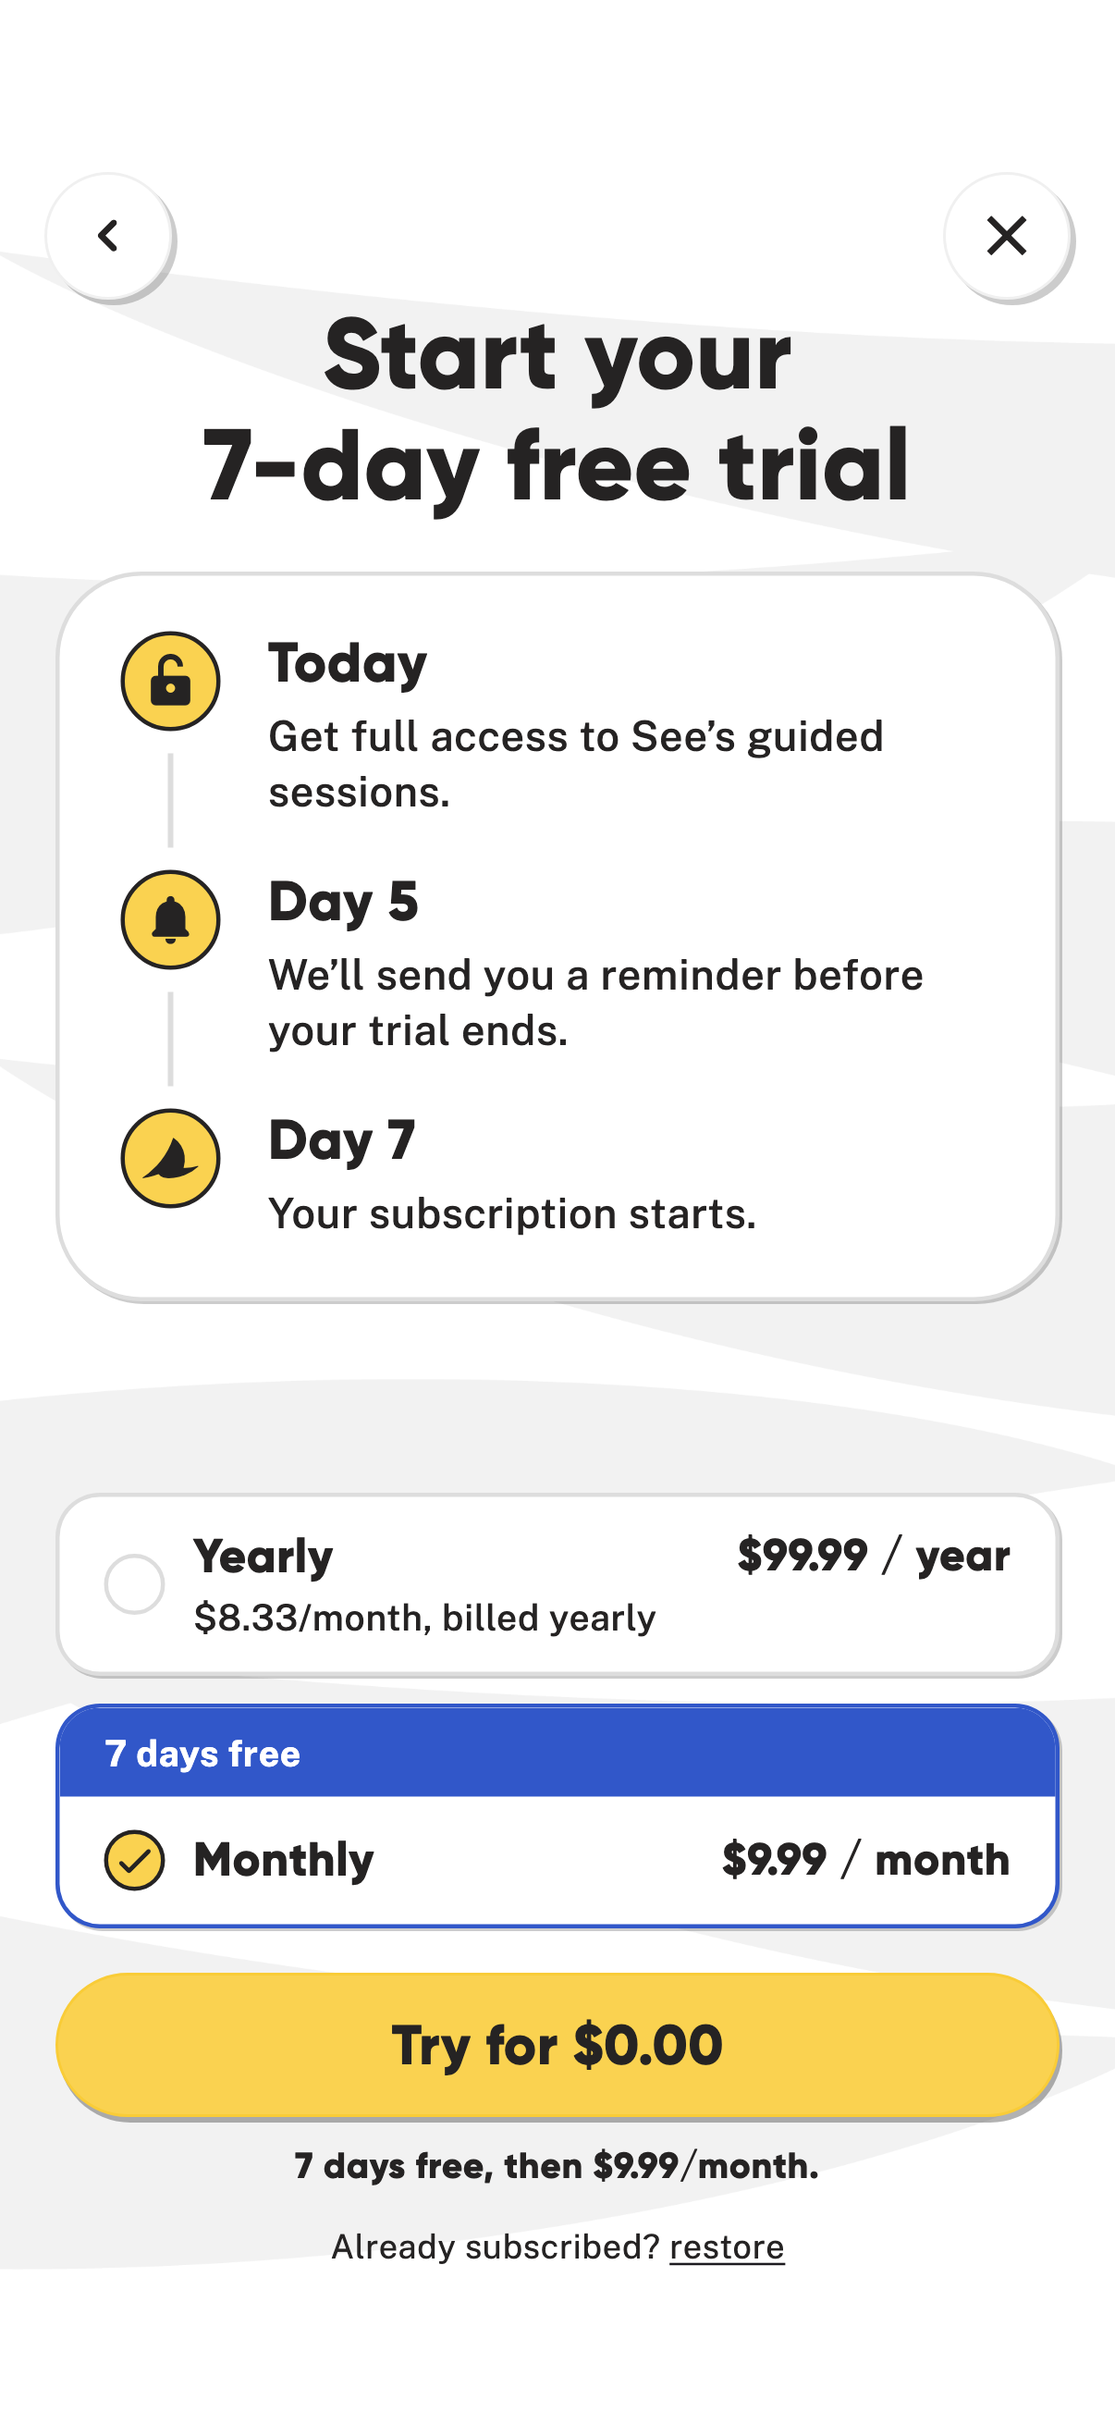
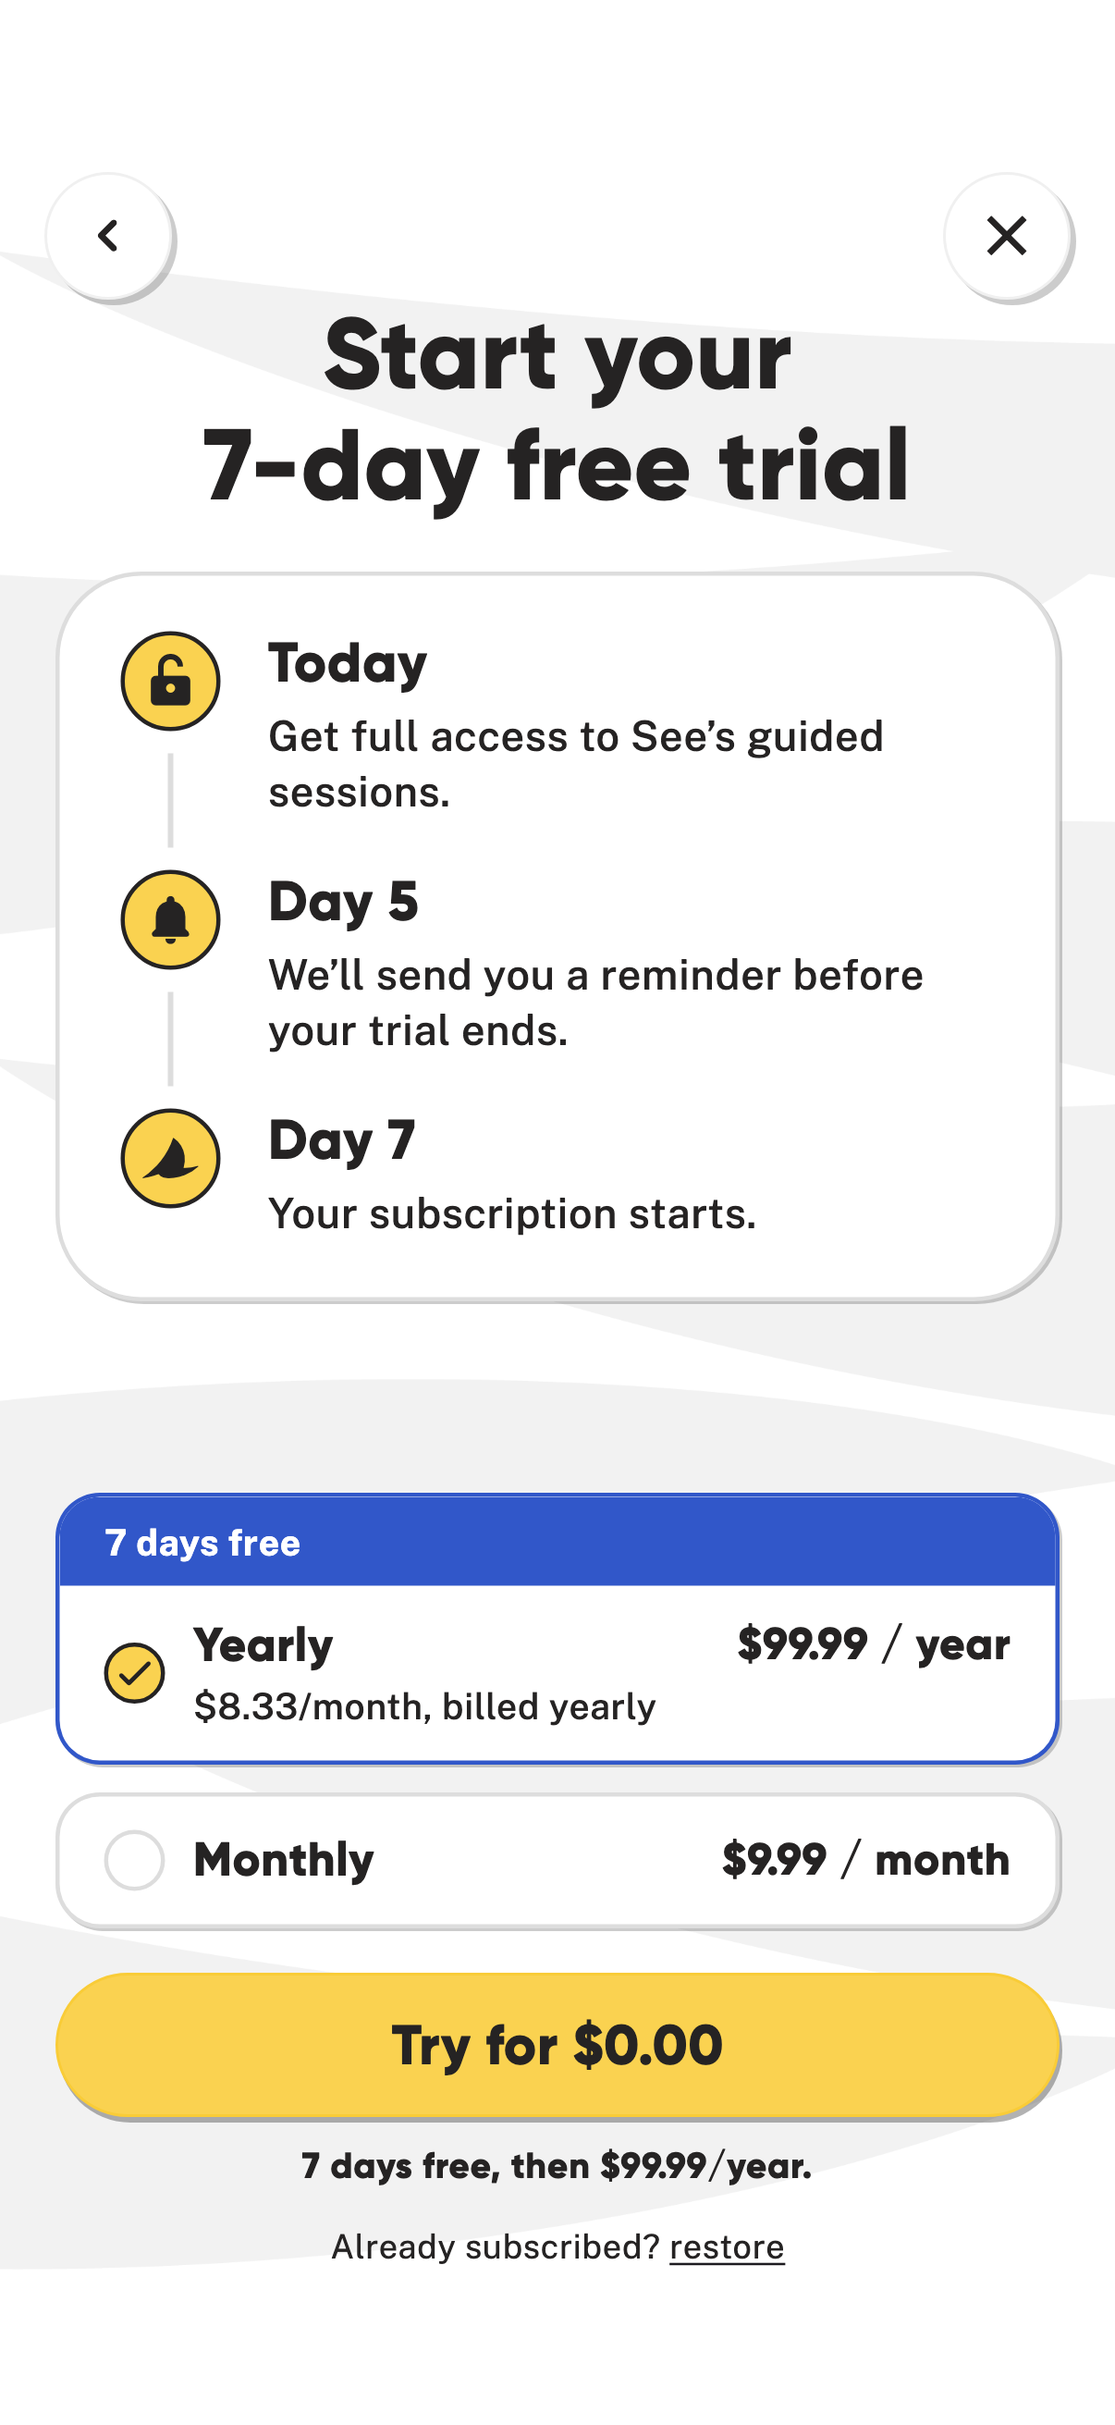
Show annual plan selected by default in onboarding paywall preview

Changed region(s): [[0.0307, 0.6178, 0.9511, 0.8032], [0.4602, 0.865, 0.7056, 0.8959], [0.2761, 0.865, 0.4295, 0.8959]]

diff --git a/default.html b/default.html
@@ -56,4 +56,4 @@ article.card .content-inner>p{color:#3157c9;font-weight:700}
 to life&#x27;s stress</h3><p class="welcome-subhead">with Non-Contemplative Meditation</p></div><div class="welcome-actions-gap"></div><div class="welcome-actions"><div class="welcome-start">Let's Get Started</div><p class="welcome-signin">Already have an account? <span>Sign In</span></p></div><p class="welcome-terms">By using See you agree to our <u>Terms</u> and <u>Privacy Policy</u></p></div></div></article><article class="card" id="18"><div class="card-label">01 · The practice</div><div class="screen"><div class="screen-content"><div class="content-inner"><h3>The simplest, most effective meditation on Earth</h3><img class="art" src="assets/images/meditating_hands.png" alt="" loading="lazy"><p>10 minutes. Twice a day.</p><p>No mantras, hypnosis, or breathwork. No mood music or sound effects. Nothing to learn, just to see.</p></div></div><div class="cta">Continue</div></div></article><article class="card" id="19"><div class="card-label">02 · Three choices</div><div class="screen screen-demo"><div class="screen-content"><div class="content-inner"><h3>Just three
 choices</h3><p class="subhead">Tap classic, prime, or flash.</p><img class="art" src="assets/images/phone_hand.png" alt="" loading="lazy"></div></div></div></article><article class="card" id="20"><div class="card-label">03 · Session selection</div><div class="screen screen-screenshot"><img src="assets/images/app_phone_med_select_screen.png" alt="Session selection"></div></article><article class="card" id="21"><div class="card-label">04 · Meditation player</div><div class="screen screen-screenshot"><img src="assets/images/app_phone_med_player_screen.png" alt="Meditation player"></div></article><article class="card" id="22"><div class="card-label">05 · Then, just listen</div><div class="screen screen-demo screen-listen"><div class="screen-content"><div class="content-inner"><h3>Then, just listen</h3><img class="art" src="assets/images/phone_player_hand.png" alt="" loading="lazy"><div class="preview-panel"><div class="preview-label">SESSION PREVIEW</div><p>“You are about to hear a small, short sample…”</p><div class="preview-wave" aria-hidden="true"><i style="height:6px"></i><i style="height:12px"></i><i style="height:8px"></i><i style="height:20px"></i><i style="height:28px"></i><i style="height:16px"></i><i style="height:10px"></i><i style="height:24px"></i><i style="height:32px"></i><i style="height:18px"></i><i style="height:8px"></i><i style="height:14px"></i><i style="height:26px"></i><i style="height:20px"></i><i style="height:10px"></i><i style="height:30px"></i><i style="height:18px"></i><i style="height:12px"></i><i style="height:24px"></i><i style="height:8px"></i><i style="height:16px"></i><i style="height:6px"></i></div><div class="preview-control">◖)) &nbsp; Hear preview</div></div></div></div><div class="cta">Continue</div></div></article><article class="card" id="23"><div class="card-label">06 · Teacher</div><div class="screen"><div class="screen-content"><div class="content-inner"><h3>One voice. Decades of experience.</h3><img class="art" src="assets/images/dan_schwarzhoff.png?v=20261001" alt="" loading="lazy"><p>Dan Schwarzhoff guides each session of Non-Contemplative Meditation using the same approach he&#x27;s taught to thousands.</p><p>Dan has spent more than six decades practicing conscious awareness. His work now reaches people around the world, helping them with many different issues and personal goals.</p></div></div><div class="cta">Continue</div></div></article><article class="card" id="24"><div class="card-label">07 · Faith compatibility</div><div class="screen"><div class="screen-content"><div class="content-inner"><h3>And it won’t conflict with your faith</h3><img class="art" src="assets/images/bible_cross_scroll.png" alt="" loading="lazy"><p>No New Age narratives. No Eastern philosophy.</p><p>Works within your faith, and alongside your spiritual practice.</p></div></div><div class="cta">Continue</div></div></article><article class="card" id="25"><div class="card-label">08 · Social proof</div><div class="screen"><div class="screen-content"><div class="content-inner"><h3>Don’t just take
 our word for it</h3><p class="subhead">Take it from people who use <span style="white-space:nowrap;font-size:.95em">Non‑Contemplative Meditation</span></p><blockquote><p>“Now I use my thoughts rather than my thoughts using me.”</p><cite>Bradley, Huntington Woods, Michigan</cite></blockquote><blockquote><p>“It literally saved my life. I absolutely love the app. It never gets monotonous.”</p><cite>Si, England</cite></blockquote><blockquote><p>“I have felt more awake, aware, and conscious than I have ever been. Great app. A game-changer.”</p><cite>Matt, Bremen, Germany</cite></blockquote><blockquote><p>“I could never meditate before. This is working. My partner, boss, colleagues, and friends have noticed a difference too.”</p><cite>Mairi Anna, Edinburgh, Scotland</cite></blockquote><blockquote><p>“The benefits—too numerous and some too private to mention—just keep on coming.”</p><cite>Mark, New South Wales, Australia</cite></blockquote><blockquote><p>“It’s changed everything. What has changed is how I perceive everything.”</p><cite>Scott, Chonburi, Thailand</cite></blockquote><blockquote><p>“The effect was immediate. It was just what I needed to snap out of years of self-pity, regret, and resentment.”</p><cite>Bobby, North Kingstown, Rhode Island</cite></blockquote><blockquote><p>“Amazing. It’s life-changing. Thank you for everything you do.”</p><cite>Sharon, Suffolk, England</cite></blockquote><blockquote><p>“Meditation has changed my life. It works, and it is a godsend. Thank you! I am free and recovered!”</p><cite>Jeanne Marie, Rockland, New York</cite></blockquote><blockquote><p>“I have peace instead of all that worry. I’m liking the different meditations in the app.”</p><cite>Donna, Leicester, England</cite></blockquote><blockquote><p>“My life changed drastically when I really committed to the meditation. No more endless chatter in my head.”</p><cite>Barbara, Antigua, Guatemala</cite></blockquote></div></div><div class="cta">Continue</div></div></article><article class="card" id="24.1"><div class="card-label">09 · Notifications</div><div class="screen screen-screenshot"><img src="assets/images/app_phone_notifications_screen.png" alt="A little
-encouragement Receive a few short messages each week to bring awareness into your day. Turn on notifications Not now"></div></article><article class="card" id="26"><div class="card-label">10 · Save progress</div><div class="screen screen-screenshot"><img src="assets/images/app_phone_signup_screen.png" alt="See is personalized around you. continue with... Apple, Google, or sign up with email." loading="lazy"></div></article><article class="card" id="27"><div class="card-label">11 · Paywall: benefits</div><div class="screen screen-screenshot"><img src="assets/images/app_phone_paywall_general_value.png" alt="Try the See App Free for 7 Days. One-Tap Convenience. Daily Mini Sessions. Build Resilience to Stress. Continue." loading="lazy"></div></article><article class="card" id="27.1"><div class="card-label">12 · Paywall: reminder</div><div class="screen screen-screenshot"><img src="assets/images/app_phone_paywall_reminder.png" alt="We&#x27;ll send you a reminder 2 days before your trial ends. No payment due now. Continue to Trial." loading="lazy"></div></article><article class="card" id="27.2"><div class="card-label">13 · Paywall: plans</div><div class="screen screen-screenshot"><img src="assets/images/app_phone_paywall_plans.png" alt="Start your 7-day free trial. Today: Get full access to See’s guided sessions. Day 5: We’ll send you a reminder before your trial ends. Day 7: Your subscription starts. Yearly or Monthly (selected). Sample prices. Try for $0.00. Already subscribed? restore." loading="lazy"></div></article></div></main></body></html>
+encouragement Receive a few short messages each week to bring awareness into your day. Turn on notifications Not now"></div></article><article class="card" id="26"><div class="card-label">10 · Save progress</div><div class="screen screen-screenshot"><img src="assets/images/app_phone_signup_screen.png" alt="See is personalized around you. continue with... Apple, Google, or sign up with email." loading="lazy"></div></article><article class="card" id="27"><div class="card-label">11 · Paywall: benefits</div><div class="screen screen-screenshot"><img src="assets/images/app_phone_paywall_general_value.png" alt="Try the See App Free for 7 Days. One-Tap Convenience. Daily Mini Sessions. Build Resilience to Stress. Continue." loading="lazy"></div></article><article class="card" id="27.1"><div class="card-label">12 · Paywall: reminder</div><div class="screen screen-screenshot"><img src="assets/images/app_phone_paywall_reminder.png" alt="We&#x27;ll send you a reminder 2 days before your trial ends. No payment due now. Continue to Trial." loading="lazy"></div></article><article class="card" id="27.2"><div class="card-label">13 · Paywall: plans</div><div class="screen screen-screenshot"><img src="assets/images/app_phone_paywall_plans.png" alt="Start your 7-day free trial. Today: Get full access to See’s guided sessions. Day 5: We’ll send you a reminder before your trial ends. Day 7: Your subscription starts. Yearly (selected) or Monthly. Sample prices. Try for $0.00. Already subscribed? restore." loading="lazy"></div></article></div></main></body></html>

diff --git a/index.html b/index.html
@@ -60,4 +60,4 @@ Drink Noise</h3><img class="art" src="assets/images/drink_noise_simple.png" alt=
 choices</h3><p class="subhead">Tap classic, prime, or flash.</p><img class="art" src="assets/images/phone_hand.png" alt="" loading="lazy"></div></div></div></article><article class="card" id="20"><div class="card-label">20 · Session selection</div><div class="screen screen-screenshot"><img src="assets/images/app_phone_med_select_screen.png" alt="Session selection"></div></article><article class="card" id="21"><div class="card-label">21 · Meditation player</div><div class="screen screen-screenshot"><img src="assets/images/app_phone_med_player_screen.png" alt="Meditation player"></div></article><article class="card" id="22"><div class="card-label">22 · Then, just listen</div><div class="screen screen-demo screen-listen"><div class="screen-content"><div class="content-inner"><h3>Then, just listen</h3><img class="art" src="assets/images/phone_player_hand.png" alt="" loading="lazy"><div class="preview-panel"><div class="preview-label">SESSION PREVIEW</div><p>“You are about to hear a small, short sample…”</p><div class="preview-wave" aria-hidden="true"><i style="height:6px"></i><i style="height:12px"></i><i style="height:8px"></i><i style="height:20px"></i><i style="height:28px"></i><i style="height:16px"></i><i style="height:10px"></i><i style="height:24px"></i><i style="height:32px"></i><i style="height:18px"></i><i style="height:8px"></i><i style="height:14px"></i><i style="height:26px"></i><i style="height:20px"></i><i style="height:10px"></i><i style="height:30px"></i><i style="height:18px"></i><i style="height:12px"></i><i style="height:24px"></i><i style="height:8px"></i><i style="height:16px"></i><i style="height:6px"></i></div><div class="preview-control">◖)) &nbsp; Hear preview</div></div></div></div><div class="cta">Continue</div></div></article><article class="card" id="23"><div class="card-label">23 · Teacher</div><div class="screen"><div class="screen-content"><div class="content-inner"><h3>One voice. Decades of experience.</h3><img class="art" src="assets/images/dan_schwarzhoff.png?v=20261001" alt="" loading="lazy"><p>Dan Schwarzhoff guides each session of Non-Contemplative Meditation using the same approach he&#x27;s taught to thousands.</p><p>Alcohol-free for more than 30 years, Dan understands the obsession with drinking from personal experience — but also the solution.</p></div></div><div class="cta">Continue</div></div></article><article class="card" id="24"><div class="card-label">24 · Faith compatibility</div><div class="screen"><div class="screen-content"><div class="content-inner"><h3>And it won’t conflict with your faith</h3><img class="art" src="assets/images/bible_cross_scroll.png" alt="" loading="lazy"><p>No New Age narratives. No Eastern philosophy.</p><p>Works within your faith, and even alongside spiritual recovery fellowships.</p></div></div><div class="cta">Continue</div></div></article><article class="card" id="25"><div class="card-label">25 · Social proof</div><div class="screen"><div class="screen-content"><div class="content-inner"><h3>Don’t just take
 our word for it</h3><p class="subhead">Take it from real people
 who’ve been there.</p><blockquote><p>“I forgot I even wanted to drink. That never happened before.”</p><cite>Kimi, London, Ohio</cite></blockquote><blockquote><p>“It literally saved my life. I absolutely love the app. It never gets monotonous.”</p><cite>Si, England</cite></blockquote><blockquote><p>“This app made quitting easier. I’m more awake, aware, and clear-headed than ever.”</p><cite>Matt, Bremen, Germany</cite></blockquote><blockquote><p>“I could never meditate before. This is working. My partner, boss, colleagues, and friends have noticed a difference too.”</p><cite>Mairi Anna, Edinburgh, Scotland</cite></blockquote><blockquote><p>“The benefits—too numerous and some too private to mention—just keep on coming.”</p><cite>Mark, New South Wales, Australia</cite></blockquote><blockquote><p>“It’s changed everything. What has changed is how I perceive everything.”</p><cite>Scott, Chonburi, Thailand</cite></blockquote><blockquote><p>“The effect was immediate. It was just what I needed to snap out of years of self-pity, regret, and resentment.”</p><cite>Bobby, North Kingstown, Rhode Island</cite></blockquote><blockquote><p>“Amazing. It’s life-changing. Thank you for everything you do.”</p><cite>Sharon, Suffolk, England</cite></blockquote><blockquote><p>“Meditation has changed my life. It works, and it is a godsend. Thank you! I am free and recovered!”</p><cite>Jeanne Marie, Rockland, New York</cite></blockquote><blockquote><p>“Since I stopped drinking, my mood lifted. I’m healthier and happier. This is the real deal.”</p><cite>Lindy, Menominee, Michigan</cite></blockquote><blockquote><p>“Amazing! I am a clinical psychologist. My life changed drastically when I really committed to meditation.”</p><cite>Barbara, Antigua, Guatemala</cite></blockquote></div></div><div class="cta">Continue</div></div></article><article class="card" id="24.1"><div class="card-label">24.1 · Notifications</div><div class="screen screen-screenshot"><img src="assets/images/app_phone_notifications_screen.png" alt="A little
-encouragement Receive a few short messages each week to bring awareness into your day. Turn on notifications Not now"></div></article><article class="card" id="26"><div class="card-label">26 · Save progress</div><div class="screen screen-screenshot"><img src="assets/images/app_phone_signup_screen.png" alt="See is personalized around you. continue with... Apple, Google, or sign up with email." loading="lazy"></div></article><article class="card" id="27"><div class="card-label">27 · Paywall: benefits</div><div class="screen screen-screenshot"><img src="assets/images/app_phone_paywall_alcohol_value.png" alt="Try the See App Free for 7 Days. One-Tap Convenience. Daily Mini Sessions. Break the Drinking Cycle. Continue." loading="lazy"></div></article><article class="card" id="27.1"><div class="card-label">27.1 · Paywall: reminder</div><div class="screen screen-screenshot"><img src="assets/images/app_phone_paywall_reminder.png" alt="We&#x27;ll send you a reminder 2 days before your trial ends. No payment due now. Continue to Trial." loading="lazy"></div></article><article class="card" id="27.2"><div class="card-label">27.2 · Paywall: plans</div><div class="screen screen-screenshot"><img src="assets/images/app_phone_paywall_plans.png" alt="Start your 7-day free trial. Today: Get full access to See’s guided sessions. Day 5: We’ll send you a reminder before your trial ends. Day 7: Your subscription starts. Yearly or Monthly (selected). Sample prices. Try for $0.00. Already subscribed? restore." loading="lazy"></div></article></div></main></body></html>
+encouragement Receive a few short messages each week to bring awareness into your day. Turn on notifications Not now"></div></article><article class="card" id="26"><div class="card-label">26 · Save progress</div><div class="screen screen-screenshot"><img src="assets/images/app_phone_signup_screen.png" alt="See is personalized around you. continue with... Apple, Google, or sign up with email." loading="lazy"></div></article><article class="card" id="27"><div class="card-label">27 · Paywall: benefits</div><div class="screen screen-screenshot"><img src="assets/images/app_phone_paywall_alcohol_value.png" alt="Try the See App Free for 7 Days. One-Tap Convenience. Daily Mini Sessions. Break the Drinking Cycle. Continue." loading="lazy"></div></article><article class="card" id="27.1"><div class="card-label">27.1 · Paywall: reminder</div><div class="screen screen-screenshot"><img src="assets/images/app_phone_paywall_reminder.png" alt="We&#x27;ll send you a reminder 2 days before your trial ends. No payment due now. Continue to Trial." loading="lazy"></div></article><article class="card" id="27.2"><div class="card-label">27.2 · Paywall: plans</div><div class="screen screen-screenshot"><img src="assets/images/app_phone_paywall_plans.png" alt="Start your 7-day free trial. Today: Get full access to See’s guided sessions. Day 5: We’ll send you a reminder before your trial ends. Day 7: Your subscription starts. Yearly (selected) or Monthly. Sample prices. Try for $0.00. Already subscribed? restore." loading="lazy"></div></article></div></main></body></html>
